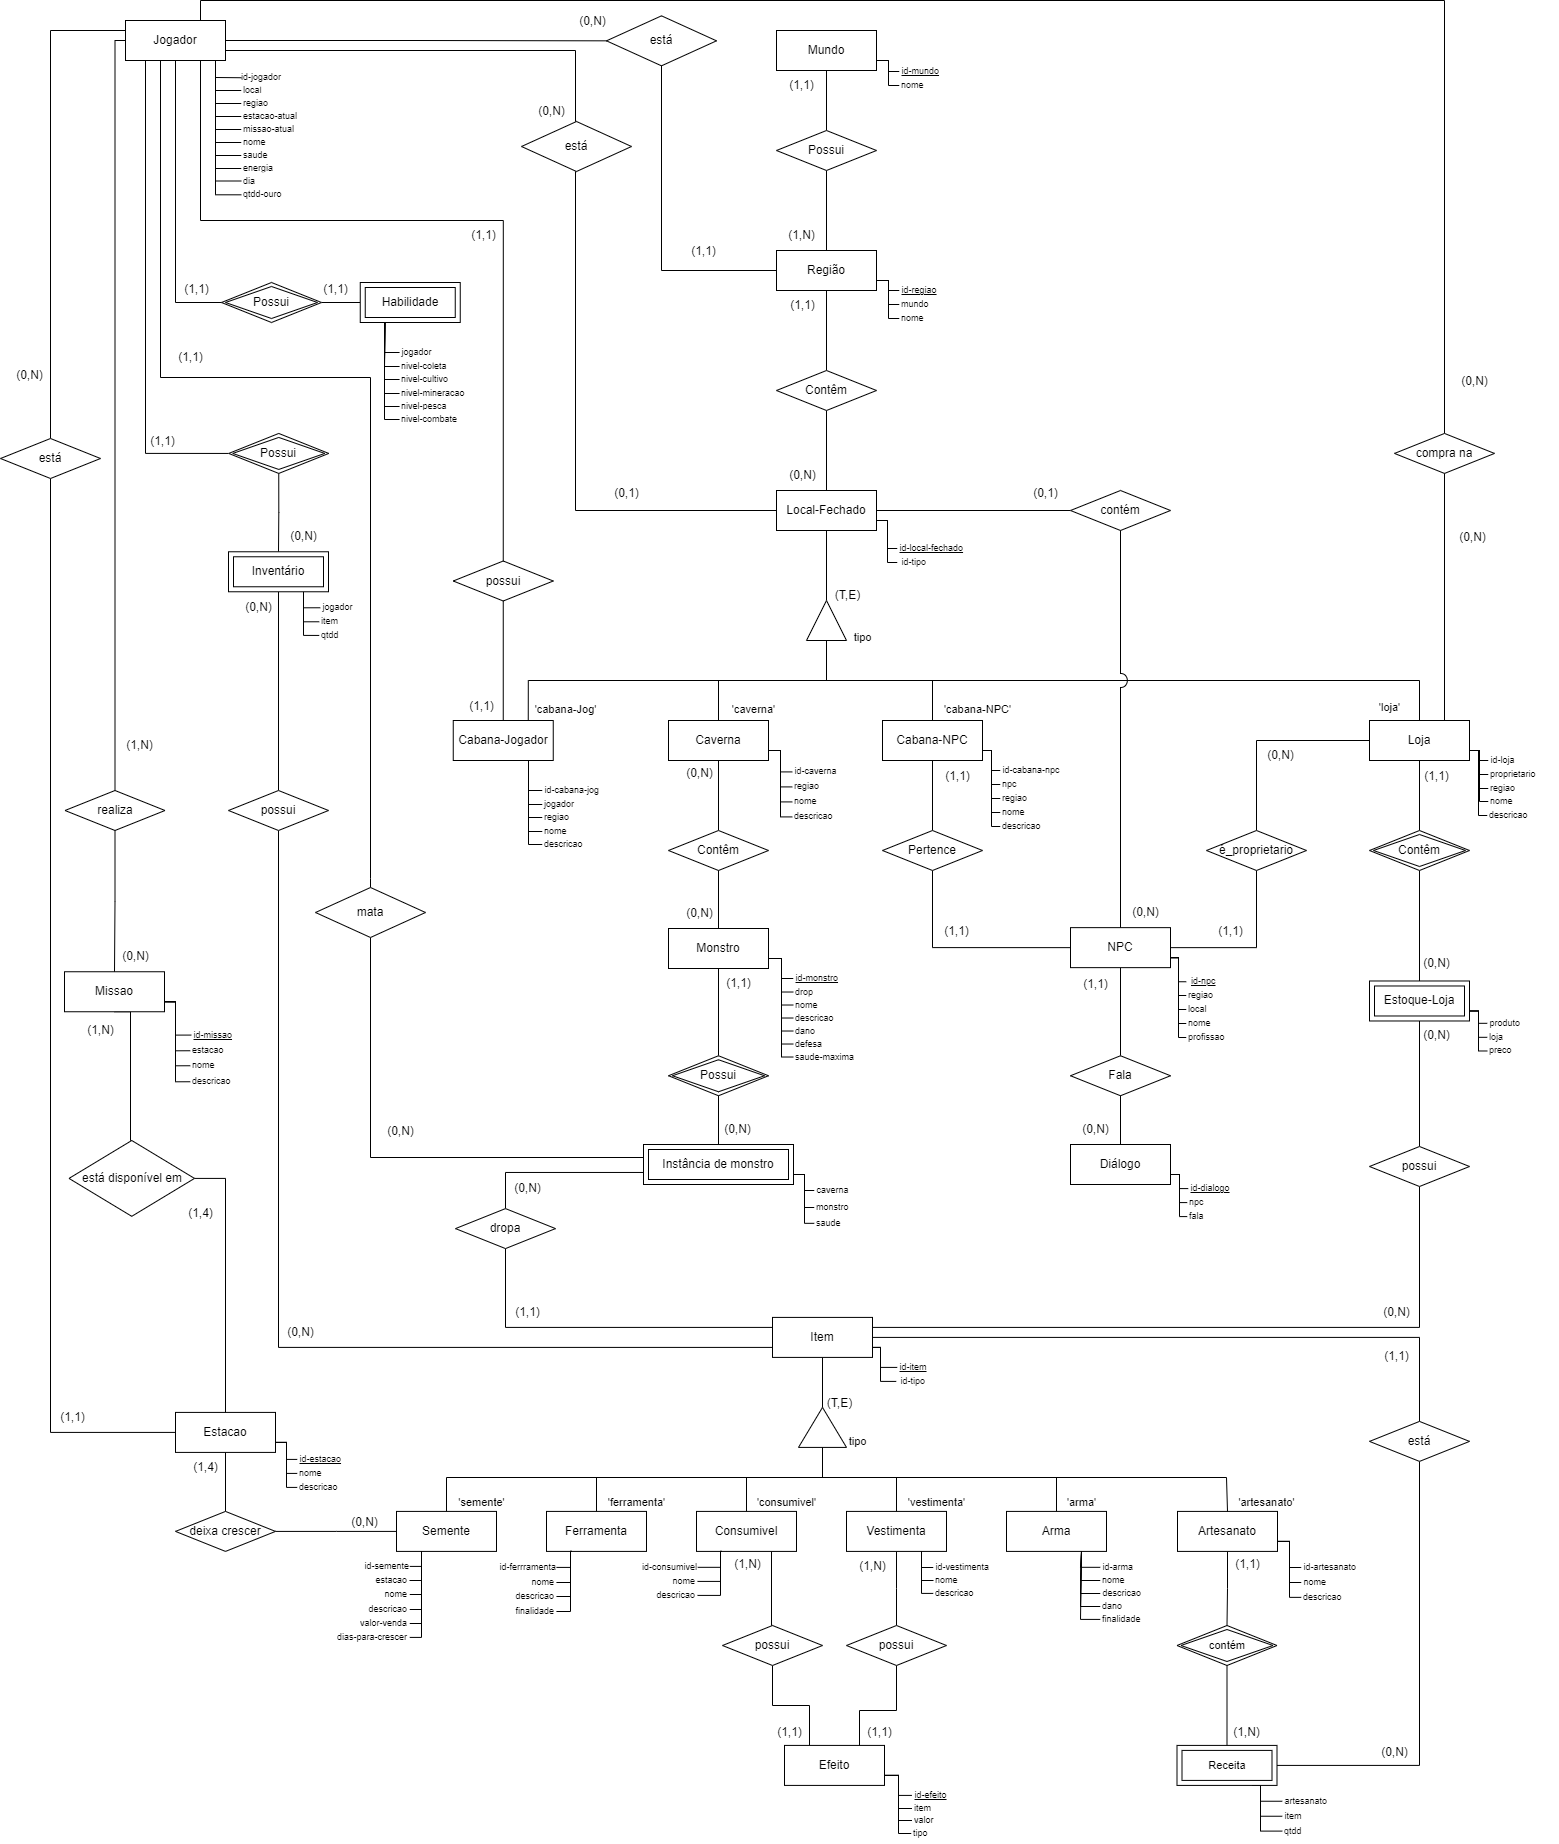
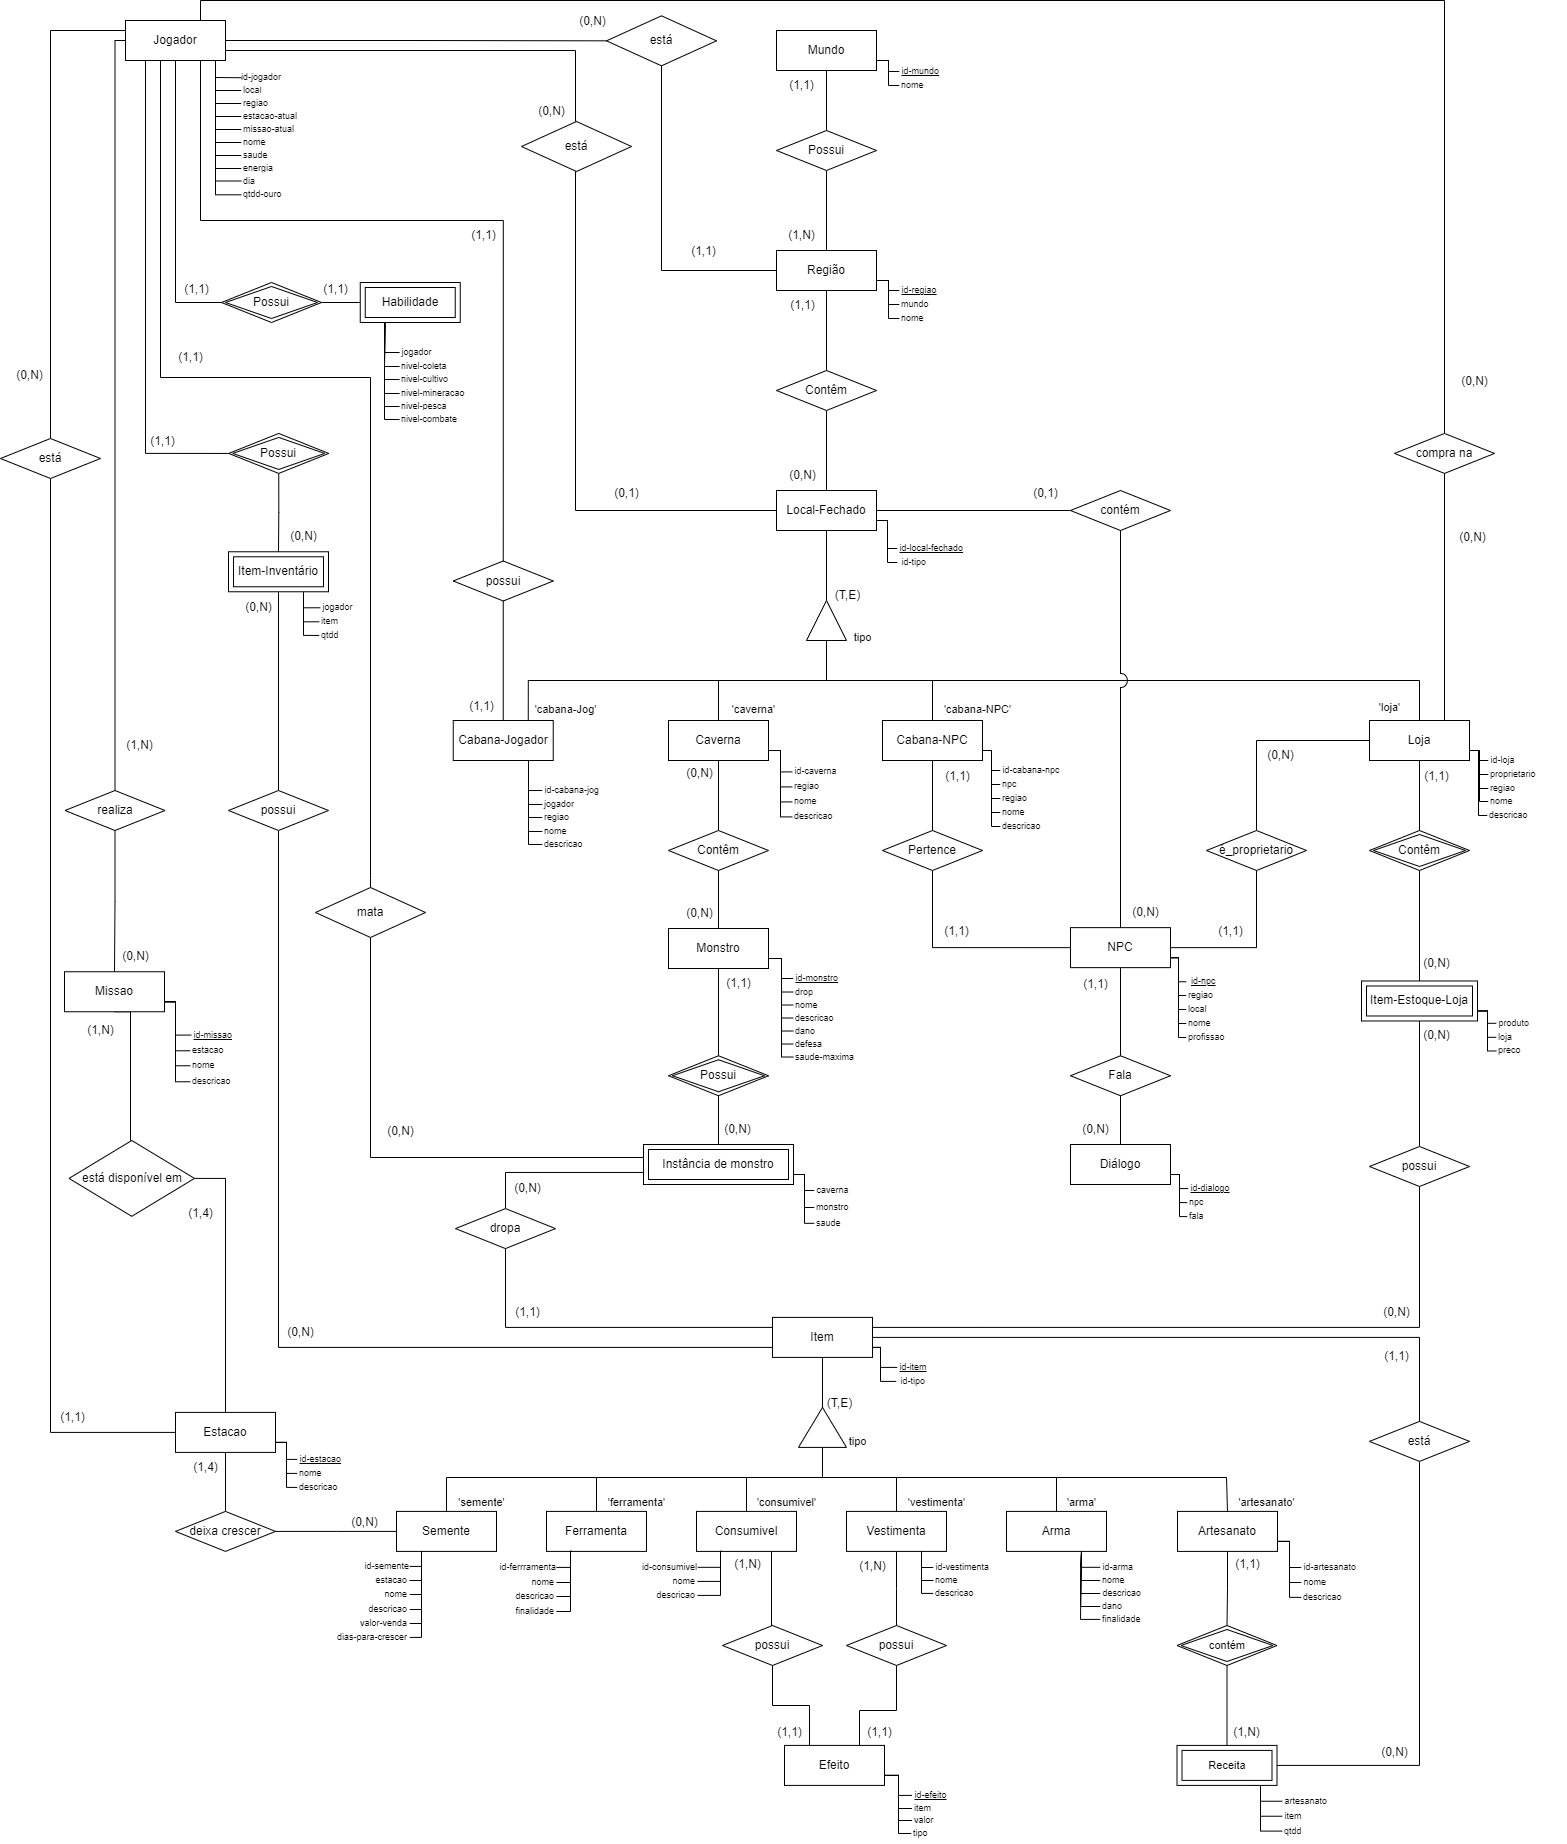
versao revisada em pares

diff --git a/docs/DD_StardewValley.md b/docs/DD_StardewValley.md
@@ -136,18 +136,6 @@
 |     nome      | varchar[50]  |          Nome da estação           |      a-z, A-Z      |          não           |          |                   |
 |   descricao   | varchar[150] |        Descrição da estação        |      a-z, A-Z      |          sim           |          |                   |
 
-## Entidade: Estoque-Loja
-
-#### Descrição: A entidade Estoque guarda o produto disponível, a loja associada e o preço associado
-
-#### Observação: Essa tabela possui chaves estrangeiras das entidades `Item` e `Loja`
-
-| Nome Variável | Tipo  |           Descrição           | Valores permitidos | Permite valores nulos? | É chave? | Outras Restrições |
-| :-----------: | :---: | :---------------------------: | :----------------: | :--------------------: | -------- | ----------------- |
-|    produto    |  int  | Identificador do item-produto |       1-5000       |          não           | FK       |                   |
-|     loja      |  int  |     Identificador da loja     |       1-5000       |          não           | FK       |                   |
-|     preço     |  int  |  Preço do produto no estoque  |    0-2147483647    |          não           |          |                   |
-
 ## Entidade: Ferramenta
 
 #### Descrição: A entidade Ferramenta armazena o número de identificação da ferramenta, seu nome, sua descrição e sua finalidade
@@ -188,9 +176,21 @@
 |    monstro    |  int  |                 Identificador do Monstro                  |       1-5000       |          não           | FK       |                   |
 |     saude     |  int  |               Saúde da instância de monstro               |       1-100        |          não           |          |                   |
 
-## Entidade: Inventário
+## Entidade: Item-Estoque-Loja
 
-#### Descrição: A entidade Inventário relaciona o jogador, os seus itens e a quantidade de espaço disponível no inventário
+#### Descrição: A entidade Item-Estoque-Loja guarda o produto disponível, a loja associada e o preço associado
+
+#### Observação: Essa tabela possui chaves estrangeiras das entidades `Item` e `Loja`
+
+| Nome Variável | Tipo  |           Descrição           | Valores permitidos | Permite valores nulos? | É chave? | Outras Restrições |
+| :-----------: | :---: | :---------------------------: | :----------------: | :--------------------: | -------- | ----------------- |
+|    produto    |  int  | Identificador do item-produto |       1-5000       |          não           | FK       |                   |
+|     loja      |  int  |     Identificador da loja     |       1-5000       |          não           | FK       |                   |
+|     preço     |  int  |  Preço do produto no estoque  |    0-2147483647    |          não           |          |                   |
+
+## Entidade: Item-Inventário
+
+#### Descrição: A entidade Item-Inventário relaciona o jogador, os seus itens e a quantidade de itens disponíveis no inventário
 
 #### Observação: Essa tabela possui chave estrangeira da entidade `Item`
 
@@ -199,6 +199,18 @@
 |    jogador    |  int  | Identificador do Jogador |       1-5000       |          não           | FK       |                   |
 |     item      |  int  |  Identificador do Item   |       1-5000       |          não           | FK       |                   |
 |     qtdd      |  int  |    quantidade do item    |       1-5000       |          não           |          |                   |
+
+## Entidade: Item-Receita
+
+#### Descrição: A entidade Item-Receita armazena os dados do item, os itens que podem ser criados por meio do artesanato e a quantidade de itens que são necessários na receita
+
+#### Observação: Essa tabela possui chaves estrangeiras das entidades `Artesanato` e `Item`
+
+| Nome Variável | Tipo  |           Descrição            | Valores permitidos | Permite valores nulos? | É chave? | Outras Restrições |
+| :-----------: | :---: | :----------------------------: | :----------------: | :--------------------: | -------- | ----------------- |
+|  artesanato   |  int  |  Identificador do artesanato   |       1-5000       |          não           | FK       |                   |
+|     item      |  int  |     Identificador do item      |       1-5000       |          não           | FK       |                   |
+|     qtdd      |  int  | Quantidade de itens da receita |       1-5000       |          não           |          |                   |
 
 ## Entidade: Item
 
@@ -308,18 +320,6 @@
 |     local     |     int      | Identificador do local onde o NPC está  |       1-5000       |          não           | FK       |                   |
 |     nome      | varchar[50]  |               Nome do npc               |      a-z, A-Z      |          não           |          |                   |
 |   profissao   | varchar[100] |            Profissão do npc             |      a-z, A-Z      |          sim           |          |                   |
-
-## Entidade: Receita
-
-#### Descrição: A entidade Receita armazena os dados do item, os itens que podem ser criados por meio do artesanato e a quantidade de itens que são necessários na receita
-
-#### Observação: Essa tabela possui chaves estrangeiras das entidades `Artesanato` e `Item`
-
-| Nome Variável | Tipo  |           Descrição            | Valores permitidos | Permite valores nulos? | É chave? | Outras Restrições |
-| :-----------: | :---: | :----------------------------: | :----------------: | :--------------------: | -------- | ----------------- |
-|  artesanato   |  int  |  Identificador do artesanato   |       1-5000       |          não           | FK       |                   |
-|     item      |  int  |     Identificador do item      |       1-5000       |          não           | FK       |                   |
-|     qtdd      |  int  | Quantidade de itens da receita |       1-5000       |          não           |          |                   |
 
 ## Entidade: Região
 

diff --git a/docs/MER_StardewValley.md b/docs/MER_StardewValley.md
@@ -5,7 +5,7 @@
 |  `1.0`  | 16/09/2023 | Criação do documento MER                          | [Zenilda Vieira](https://github.com/ZenildaVieira)                                                               |         |
 |  `1.1`  | 24/09/2023 | Adição das entidades                              | [Matheus Silverio](https://github.com/MattSilverio)                                                              |         |
 |  `1.2`  | 24/09/2023 | Adição das entidades, atributos e relacionamentos | [Edilberto Cantuaria](https://github.com/edilbertocantuaria)                                                     |         |
-| `1.2.1` | 26/09/2023 | Revisão em pares                                  | [Edilberto Cantuaria](https://github.com/edilbertocantuaria), <br>[Zenilda Vieira](https://github.com/ZenildaVieira) |         |
+| `1.3` | 26/09/2023 | Revisão em pares                                  | [Edilberto Cantuaria](https://github.com/edilbertocantuaria), <br>[Zenilda Vieira](https://github.com/ZenildaVieira) |         |
 
 # MER - Modelo Entidade Relacionamento
 
@@ -19,10 +19,11 @@ O Modelo Entidade Relacionamento de um bancos de dados é um modelo conceitual q
 
 - **Efeito**
 - **Estacao**
-- **Estoque-Loja**
 - **Habilidade**
 - **Instância de Monstro**
-- **Inventário**
+- **Item-Estoque-Loja**
+- **Item-Inventário**
+- **Item-Receita**
 - **Item**
   - **Semente**
   - **Ferramenta**
@@ -40,7 +41,6 @@ O Modelo Entidade Relacionamento de um bancos de dados é um modelo conceitual q
 - **Monstro**
 - **Mundo**
 - **NPC**
-- **Receita**
 - **Região**   
 
 ## 2. Atributos
@@ -48,10 +48,11 @@ O Modelo Entidade Relacionamento de um bancos de dados é um modelo conceitual q
 - **Dialogo**: <ins>id-dialogo</ins>, npc, fala;
 - **Efeito**: <ins>id-efeito</ins>, item, valor, tipo;
 - **Estacao**: <ins>id-estacao</ins>, nome, descricao;
-- **Estoque-Loja**: produto, loja, preco;
 - **Habilidade**: jogador, nivel-coleta, nivel-cultivo, nivel-mineracao, nivel-pesca, nivel-combate;
 - **Instância-Monstro**: caverna, monstro, saude;
-- **Inventário**: jogador, item, qtdd;
+- **Item-Estoque-Loja**: produto, loja, preco;
+- **Item-Inventário**: jogador, item, qtdd;
+- **Item-Receita**: id-artesanato, item, qtdd;
 - **Item**: <ins>id-item</ins>, id-tipo;
   - **Semente**: id-semente, estacao, nome, descricao, valor-venda, dias-para-crescer;
   - **Ferramenta**: id-ferramenta, nome, descricao;
@@ -69,7 +70,6 @@ O Modelo Entidade Relacionamento de um bancos de dados é um modelo conceitual q
 - **Monstro**: <ins>id-monstro</ins>, drop, nome, descricao, dano, defesa, saude-maxima;
 - **Mundo**: <ins>id-mundo</ins>, nome;
 - **NPC**: <ins>id-npc</ins>, regiao, local, nome, profissao;
-- **Receita**: id-artesanato, item, qtdd;
 - **Região**: <ins>id-regiao</ins>, mundo, nome;
 
 
@@ -80,15 +80,15 @@ O Modelo Entidade Relacionamento de um bancos de dados é um modelo conceitual q
 - O jogador está em apenas uma única estação (1,1)
 - A estação pode conter nenhum ou vários jogadores(0,N)
 
-**Jogador *realiza* Missão**
+**Jogador *realiza* Missao**
 
 - O jogador realiza nenhuma ou várias missões (0,N)
 - A missão é realizada por apenas um ou vários jogadores (1,N)
 
-**Jogador *possui* Inventário**
+**Jogador *possui* Item-Inventário**
 
-- O jogador possui de nenhum a vários inventários (0,N)
-- O inventário é de apenas um único jogador (1,1)
+- O jogador possui de nenhum a vários item-inventários (0,N)
+- O item-inventário é de apenas um único jogador (1,1)
 
 **Jogador *possui* uma Habilidade**
 
@@ -130,10 +130,10 @@ O Modelo Entidade Relacionamento de um bancos de dados é um modelo conceitual q
 - Durante a estação pode crescer nenhuma ou várias sementes (0,N)
 - A semente pode crescer em uma ou em até 4 estações (1, 4)
 
-**Inventário *possui* Item**
+**Item-Inventário *possui* Item**
 
-- O inventário do jogador pode possuir nenhum a vários itens (0,N)
-- O item aparece em nenhum a vários inventários (0, N)
+- O item-inventário do jogador pode possuir nenhum a vários itens (0,N)
+- O item aparece em nenhum a vários item-inventários (0, N)
 
 **Mundo *possui* Região**
 
@@ -185,15 +185,15 @@ O Modelo Entidade Relacionamento de um bancos de dados é um modelo conceitual q
 - Um NPC pode ser proprietário de nenhuma ou várias lojas (0,N)
 - Uma loja possui apenas um único priprietário NPC (1, 1)
 
-**Loja *contem* Estoque-loja**
+**Loja *contem* Item-Estoque-loja**
 
-- Uma loja contém de nenhum a vários estoque-loja (0, N)
-- Um estoque-loja é de apenas uma única loja (1, 1)
+- Uma loja contém de nenhum a vários item-estoque-loja (0, N)
+- Um item-estoque-loja é de apenas uma única loja (1, 1)
 
-**Estoque-loja *possui* Item**
+**Item-Estoque-loja *possui* Item**
 
-- Estoque-loja possui nenhum a vários itens (0, N)
-- Um item pode aparecer em nenhum ou em vários estoque-loja (0, N)
+- Um item-estoque-loja possui nenhum a vários itens (0, N)
+- Um item pode aparecer em nenhum ou em vários item-estoque-loja (0, N)
 
 **Item *possui exclusivamente* tipos**
 
@@ -208,13 +208,13 @@ O Modelo Entidade Relacionamento de um bancos de dados é um modelo conceitual q
 - Vestimenta possui apenas um único efeito (1, 1)
 - Um efeito faz parte de várias vestimentas (1, N)
 
-**Artesanato *contém* Receita**
-- Um artesanato contém de uma a várias receitas (1, N)
-- Uma receita faz parte de apenas um único artesanato (1, 1)
+**Artesanato *contém* Item-Receita**
+- Um artesanato contém de um a vários item-receitas (1, N)
+- Um item-receita faz parte de apenas um único artesanato (1, 1)
 
-**Item *está* na receita**
-- Um item pode fazer parte de nenhuma a várias receitas (0, N)
-- Uma receita contém apenas um único item (1, 1)
+**Item *está* no Item-receita**
+- Um item pode fazer parte de nenhuma a vários item-receitas (0, N)
+- Um item-receita contém apenas um único item (1, 1)
 
 
 

diff --git a/docs/MREL_StardewValley.md b/docs/MREL_StardewValley.md
@@ -3,9 +3,9 @@
 | Versão |    Data    | Descrição                 | Autor                                              | Revisão |
 | :----: | :--------: | ------------------------- | -------------------------------------------------- | ------- |
 | `1.0`  | 23/09/2023 | Criação do documento MREL | [Zenilda Vieira](https://github.com/ZenildaVieira) |         |
-| `1.1`  | 23/09/2023 | Primeira versão do MREL | [Edilberto Cantuaria](https://github.com/edilbertocantuaria), <br> [Marcus Martins](https://github.com/marcusmartinss),  <br> [Matheus Silverio](https://github.com/MattSilverio)  <br> [Zenilda Vieira](https://github.com/ZenildaVieira)  |         |
+| `1.1`  | 23/09/2023 | Primeira versão do MREL | [Edilberto Cantuaria](https://github.com/edilbertocantuaria), <br> [Marcus Martins](https://github.com/marcusmartinss),  <br> [Matheus Silverio](https://github.com/MattSilverio),  <br> [Zenilda Vieira](https://github.com/ZenildaVieira)  |         |
 | `1.2`  | 24/09/2023 | Descrição do documento | [Matheus Silverio](https://github.com/MattSilverio) |         |
-| `1.3`  | 26/09/2023 | Revisão em pares         | [Edilberto Cantuaria](https://github.com/edilbertocantuaria) e  [Zenilda Vieira](https://github.com/ZenildaVieira) |         |
+| `1.3`  | 26/09/2023 | Revisão em pares         | [Edilberto Cantuaria](https://github.com/edilbertocantuaria), <br>  [Zenilda Vieira](https://github.com/ZenildaVieira) |         |
 
 # Modelo Relacional
 
